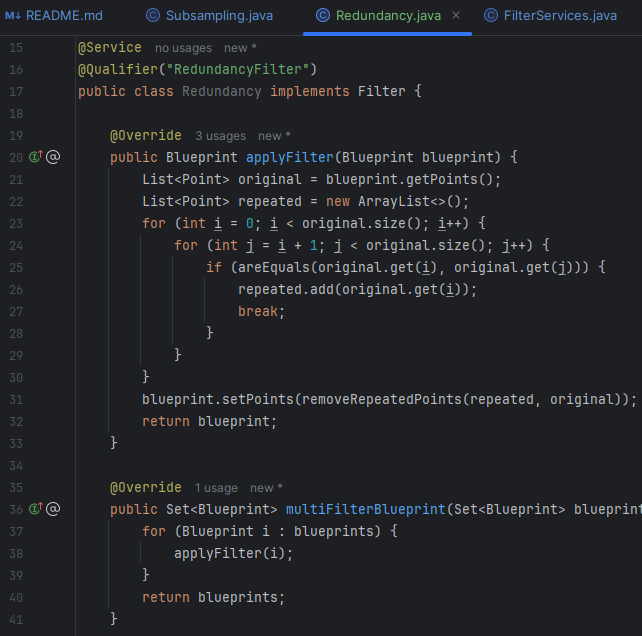
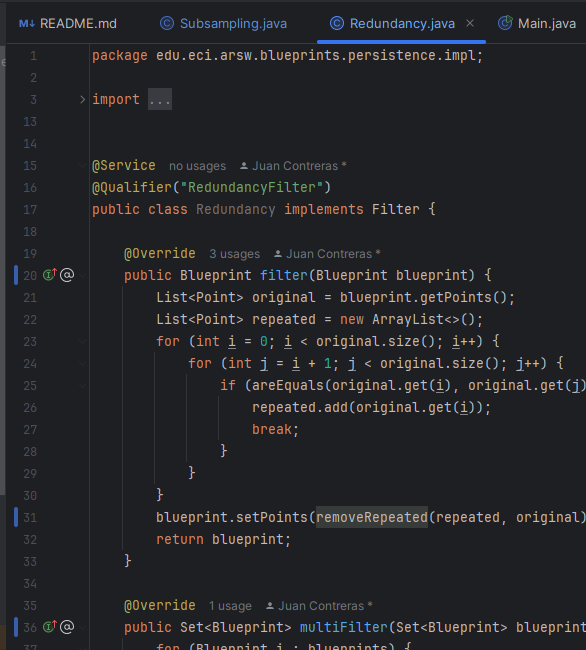
Parte 4

diff --git a/src/main/java/edu/eci/arsw/blueprints/persistence/impl/Redundancy.java b/src/main/java/edu/eci/arsw/blueprints/persistence/impl/Redundancy.java
@@ -17,7 +17,7 @@ import edu.eci.arsw.blueprints.persistence.Filter;
 public class Redundancy implements Filter {
 
     @Override
-    public Blueprint applyFilter(Blueprint blueprint) {
+    public Blueprint filter(Blueprint blueprint) {
         List<Point> original = blueprint.getPoints();
         List<Point> repeated = new ArrayList<>();
         for (int i = 0; i < original.size(); i++) {
@@ -28,14 +28,14 @@ public class Redundancy implements Filter {
                 }
             }
         }
-        blueprint.setPoints(removeRepeatedPoints(repeated, original));
+        blueprint.setPoints(removeRepeated(repeated, original));
         return blueprint;
     }
 
     @Override
-    public Set<Blueprint> multiFilterBlueprint(Set<Blueprint> blueprints) {
+    public Set<Blueprint> multiFilter(Set<Blueprint> blueprints) {
         for (Blueprint i : blueprints) {
-            applyFilter(i);
+            filter(i);
         }
         return blueprints;
     }
@@ -44,7 +44,7 @@ public class Redundancy implements Filter {
         return (p1.getX() == p2.getX() && p1.getY() == p2.getY());
     }
 
-    public List<Point> removeRepeatedPoints(List<Point> repeatedPoints, List<Point> ptsAll) {
+    public List<Point> removeRepeated(List<Point> repeatedPoints, List<Point> ptsAll) {
         List<Point> x = new ArrayList<>(ptsAll);
         for (Point i: repeatedPoints) {
             x.remove(i);

diff --git a/src/main/java/edu/eci/arsw/blueprints/services/FilterServices.java b/src/main/java/edu/eci/arsw/blueprints/services/FilterServices.java
@@ -1,8 +1,6 @@
 package edu.eci.arsw.blueprints.services;
 
 import edu.eci.arsw.blueprints.model.Blueprint;
-import edu.eci.arsw.blueprints.persistence.BlueprintNotFoundException;
-import edu.eci.arsw.blueprints.persistence.BlueprintPersistenceException;
 import edu.eci.arsw.blueprints.persistence.Filter;
 import org.springframework.beans.factory.annotation.Autowired;
 import org.springframework.beans.factory.annotation.Qualifier;
@@ -15,11 +13,11 @@ public class FilterServices {
     @Qualifier("RedundancyFilter")
     Filter filter;
 
-    public void applyFilter(Blueprint bp)   {
-        filter.applyFilter(bp);
+    public void filter(Blueprint blueprint)   {
+        filter.filter(blueprint);
     }
 
-    public void multiFilterBlueprint(Set<Blueprint> bps) {
-        filter.multiFilterBlueprint(bps);
+    public void multiFilter(Set<Blueprint> blueprints) {
+        filter.multiFilter(blueprints);
     }
 }

diff --git a/src/main/java/edu/eci/arsw/blueprints/persistence/impl/Subsampling.java b/src/main/java/edu/eci/arsw/blueprints/persistence/impl/Subsampling.java
@@ -16,7 +16,7 @@ import org.springframework.stereotype.Service;
 public class Subsampling implements Filter{
 
     @Override
-    public Blueprint applyFilter(Blueprint blueprint) {
+    public Blueprint filter(Blueprint blueprint) {
         List<Point> original = blueprint.getPoints();
         List<Point> newPoints = new ArrayList<>();
         for(int i = 0; i < original.size(); i += 2){
@@ -27,9 +27,9 @@ public class Subsampling implements Filter{
     }
 
     @Override
-    public Set<Blueprint> multiFilterBlueprint(Set<Blueprint> blueprints) {
+    public Set<Blueprint> multiFilter(Set<Blueprint> blueprints) {
         for (Blueprint blueprint : blueprints) {
-            applyFilter(blueprint);
+            filter(blueprint);
         }
         return blueprints;
     }

diff --git a/src/main/java/edu/eci/arsw/blueprints/services/BlueprintsServices.java b/src/main/java/edu/eci/arsw/blueprints/services/BlueprintsServices.java
@@ -60,7 +60,7 @@ public class BlueprintsServices {
     public Blueprint getBlueprint(String author,String name) throws BlueprintNotFoundException{
         Blueprint blueprint;
         blueprint = bpp.getBlueprint(author, name);
-        filter.applyFilter(blueprint);
+        filter.filter(blueprint);
         return blueprint;
     }
 
@@ -74,7 +74,7 @@ public class BlueprintsServices {
         Set<Blueprint> blueprints = bpp.getBlueprintsByAuthor(author);
         Set<Blueprint> blueprintsFiltered = new HashSet<>();
         for(Blueprint bp: blueprints){
-            filter.applyFilter(bp);
+            filter.filter(bp);
             blueprintsFiltered.add(bp);
         }
         return blueprintsFiltered;

diff --git a/src/main/java/edu/eci/arsw/blueprints/persistence/Filter.java b/src/main/java/edu/eci/arsw/blueprints/persistence/Filter.java
@@ -4,6 +4,6 @@ import edu.eci.arsw.blueprints.model.Blueprint;
 import java.util.Set;
 
 public interface Filter {
-    Blueprint applyFilter(Blueprint blueprint);
-    Set<Blueprint> multiFilterBlueprint(Set<Blueprint> blueprints);
+    Blueprint filter(Blueprint blueprint);
+    Set<Blueprint> multiFilter(Set<Blueprint> blueprints);
 }
